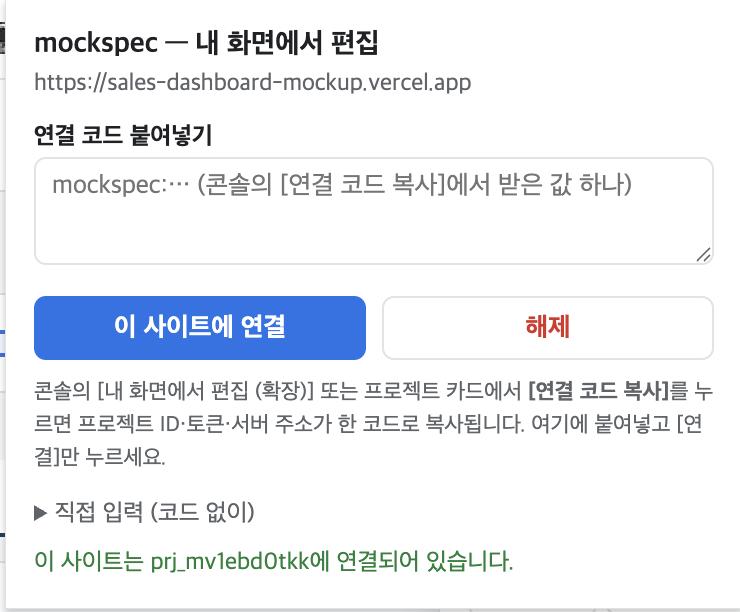
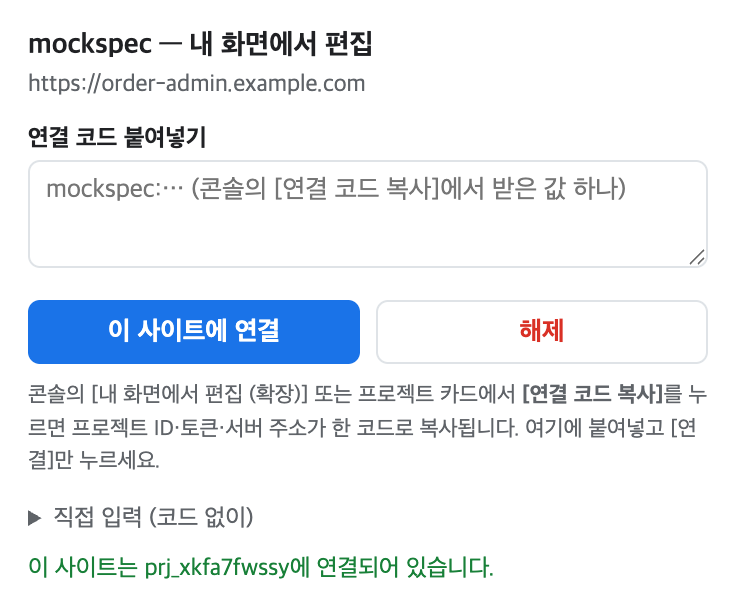
docs: README 스크린샷 리뉴얼 콘솔 UI로 교체 + 프로젝트 목록 이미지 신설
- pathD-1(연결 코드)·pathD-2(확장 팝업)를 리뉴얼 콘솔(이슈 #11) 기준으로 재촬영 교체
- console-project-list.png 신설 — '### 3. 콘솔 프로젝트 목록' 섹션 추가, 기존 3·4번 재번호
- 격리 데이터 디렉토리+임시 포트 서버에서 데모 프로젝트 3종(일반화 명칭)으로 촬영, 토큰 마스킹

diff --git a/docs/PROGRESS.md b/docs/PROGRESS.md
@@ -68,6 +68,16 @@
 
 ## 세션 로그 (최신이 위)
 
+### 2026-07-17 — README 스크린샷 리뉴얼 + 프로젝트 목록 이미지 신설
+- 브랜치: `docs/readme-screenshots`.
+- 배경(사용자 요청): README "화면으로 보는 경로 D"의 이미지 1(콘솔 연결 코드)·2(확장 팝업)가 콘솔 UI 리뉴얼(이슈 #11, PR #21) 이전 구버전. 리뉴얼 화면으로 교체 + 프로젝트 목록 화면을 3번째로 추가(목업 편집 앞 배치).
+- 완료: Playwright 자동화 스크립트로 재촬영 — 격리 데이터 디렉토리(`MOCKSPEC_DATA_DIR`)+임시 포트(4137) 서버라 실사용 `data/` 무접촉. 데모 프로젝트 3종(ZIP 업로드·URL 프록시·확장, 일반화 명칭) 시드.
+  - `pathD-1-console-connect-code.png` 교체: 리뉴얼 콘솔 확장 탭에서 실제 생성 플로우로 연결 코드 발급 상태, 토큰은 ● 마스킹.
+  - `pathD-2-extension-popup.png` 교체: 확장을 unpacked 로드해 실제 연결 코드로 [이 사이트에 연결] 후 재방문 상태("연결되어 있습니다"). 오리진 표기는 데모용 example.com 스텁(팝업은 활성 탭 origin을 표기·저장 키로만 사용). 콘텐츠 높이 클립.
+  - `console-project-list.png` 신설: GNB+프로젝트 목록(3종 배지·메타·행 액션). README에 "### 3. 콘솔 프로젝트 목록" 섹션 추가, 기존 3·4번은 4·5번으로 재번호. user-guide.md는 이미지 참조 없음(확인).
+- 다음 할 일: 사용자 검토 → 커밋·push·PR → 병합 동의.
+- 막힌 지점: 없음.
+
 ### 2026-07-16 — PR #23·#25 main 병합 완료 (이슈 #17 좌상단 부착 · 이슈 #22 재해석 2.5단계)
 - 사용자 동의 후 순서대로 병합: **PR #23**(#17, merge commit·CI green·리뷰 3건 반영+재리뷰 2건 기각) → **PR #25**(#22, `bef6789`, CI green·지적 0건). 이슈 #17·#22 자동 닫힘, 로컬·원격 브랜치 삭제(prune 확인).
 - 유의: 스택 PR #24는 base(#23 브랜치)가 병합·삭제되며 GitHub이 자동 close(재오픈 불가) — main으로 rebase(충돌 없음, unit 201 재확인) 후 **PR #25로 승계**해 병합. 스택 PR은 병합 순서가 되면 base 삭제 전에 미리 retarget하는 것이 안전하다는 교훈.
